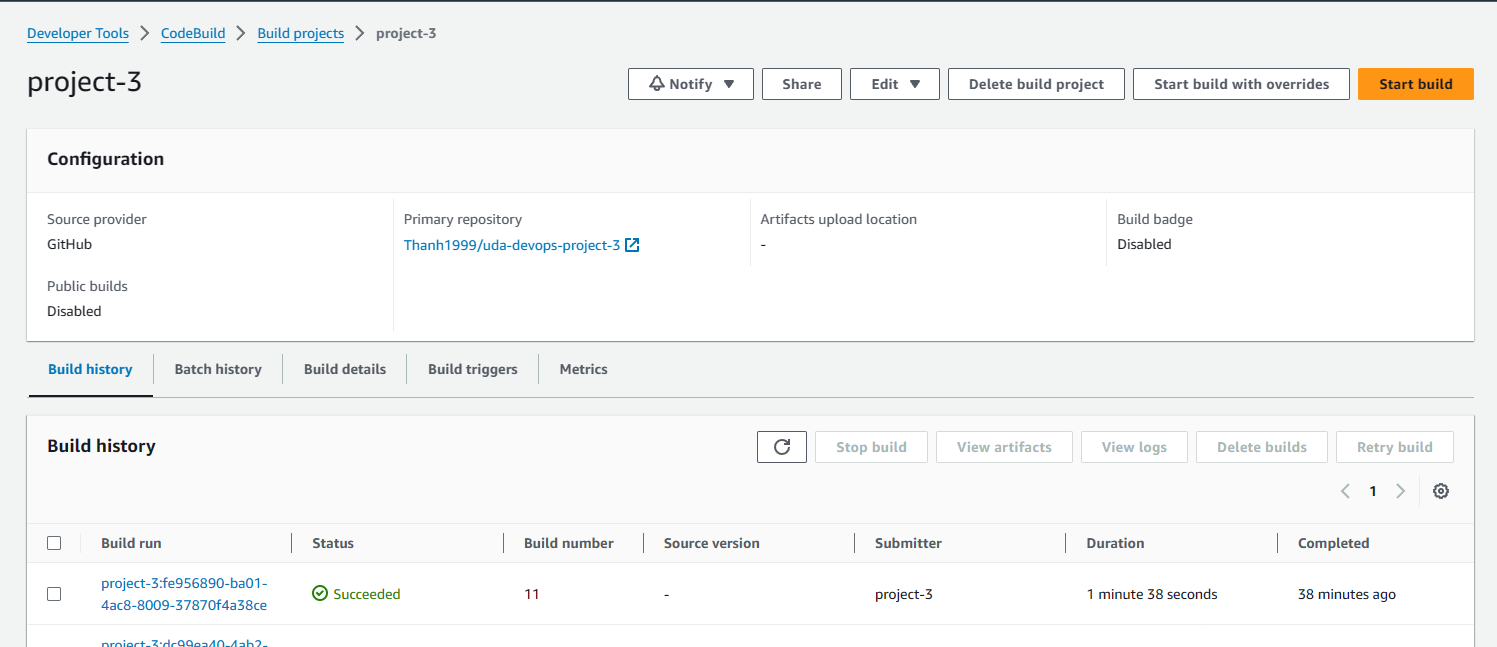
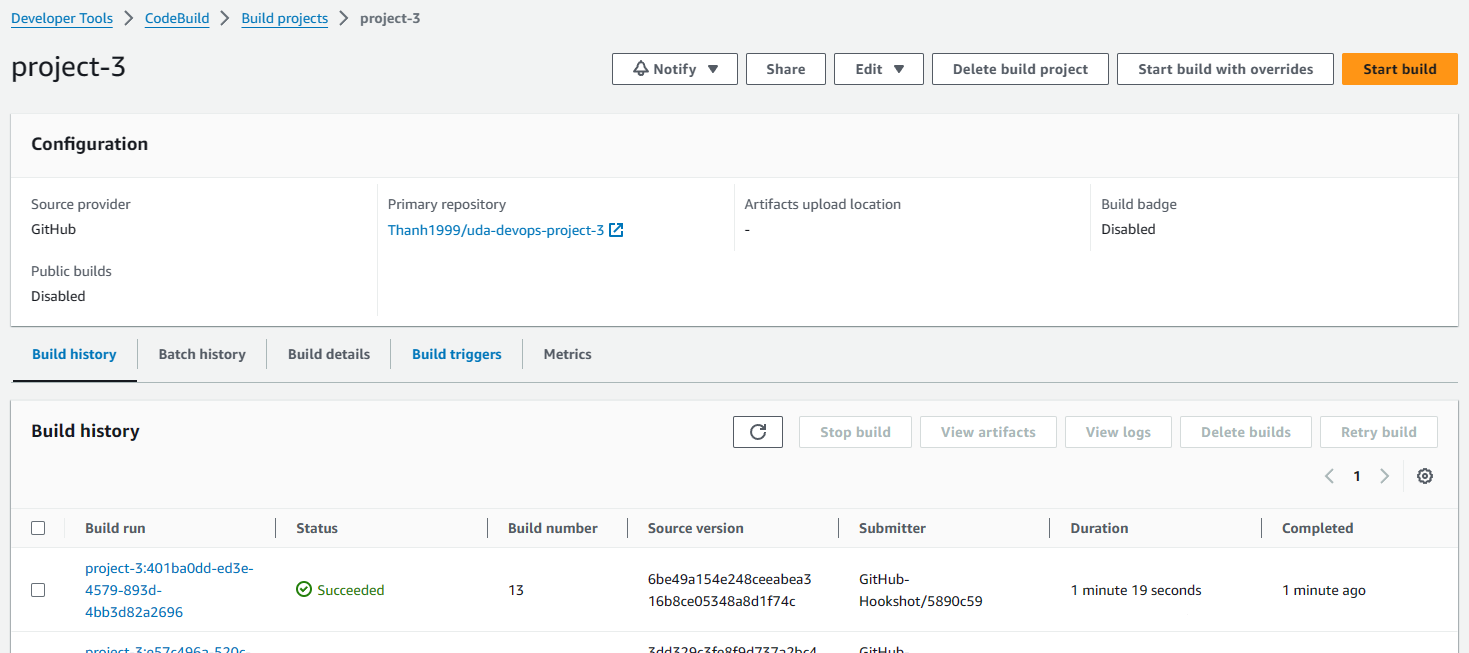
update

diff --git a/README.md b/README.md
@@ -4,4 +4,4 @@
 3. Then run "aws eks update-kubeconfig --name udaci" - udaci is the cluster of the project
 4. Under the deployments folder when you make change to these files run "kubectl apply -f <FILE_NAME>" to update the new changes to eks resource (deployment, service, env). Eg: kubectl apply -f api-deployment.yml - Update deployment resource will replace the existed pod with a new one
 5. To connect to the application you can use port fowarding: "kubectl port-forward svc/api-app <LOCAL_PORT>:8080". For example if I use 8888 as my LOCAL_PORT, the application will be available in http://127.0.0.1:8888/ url. From there we can access api endpoint - Eg: http://127.0.0.1:8888/api/reports/user_visits
-6. Everytime we make new change and push to github new build will be trigged to run in AWSCodebuild, and if there are any changes in the "analytics" new image will be created in ECR
+6. Everytime we make new change and push to github new build will be trigged to run in AWSCodebuild, new image will be created in ECR
